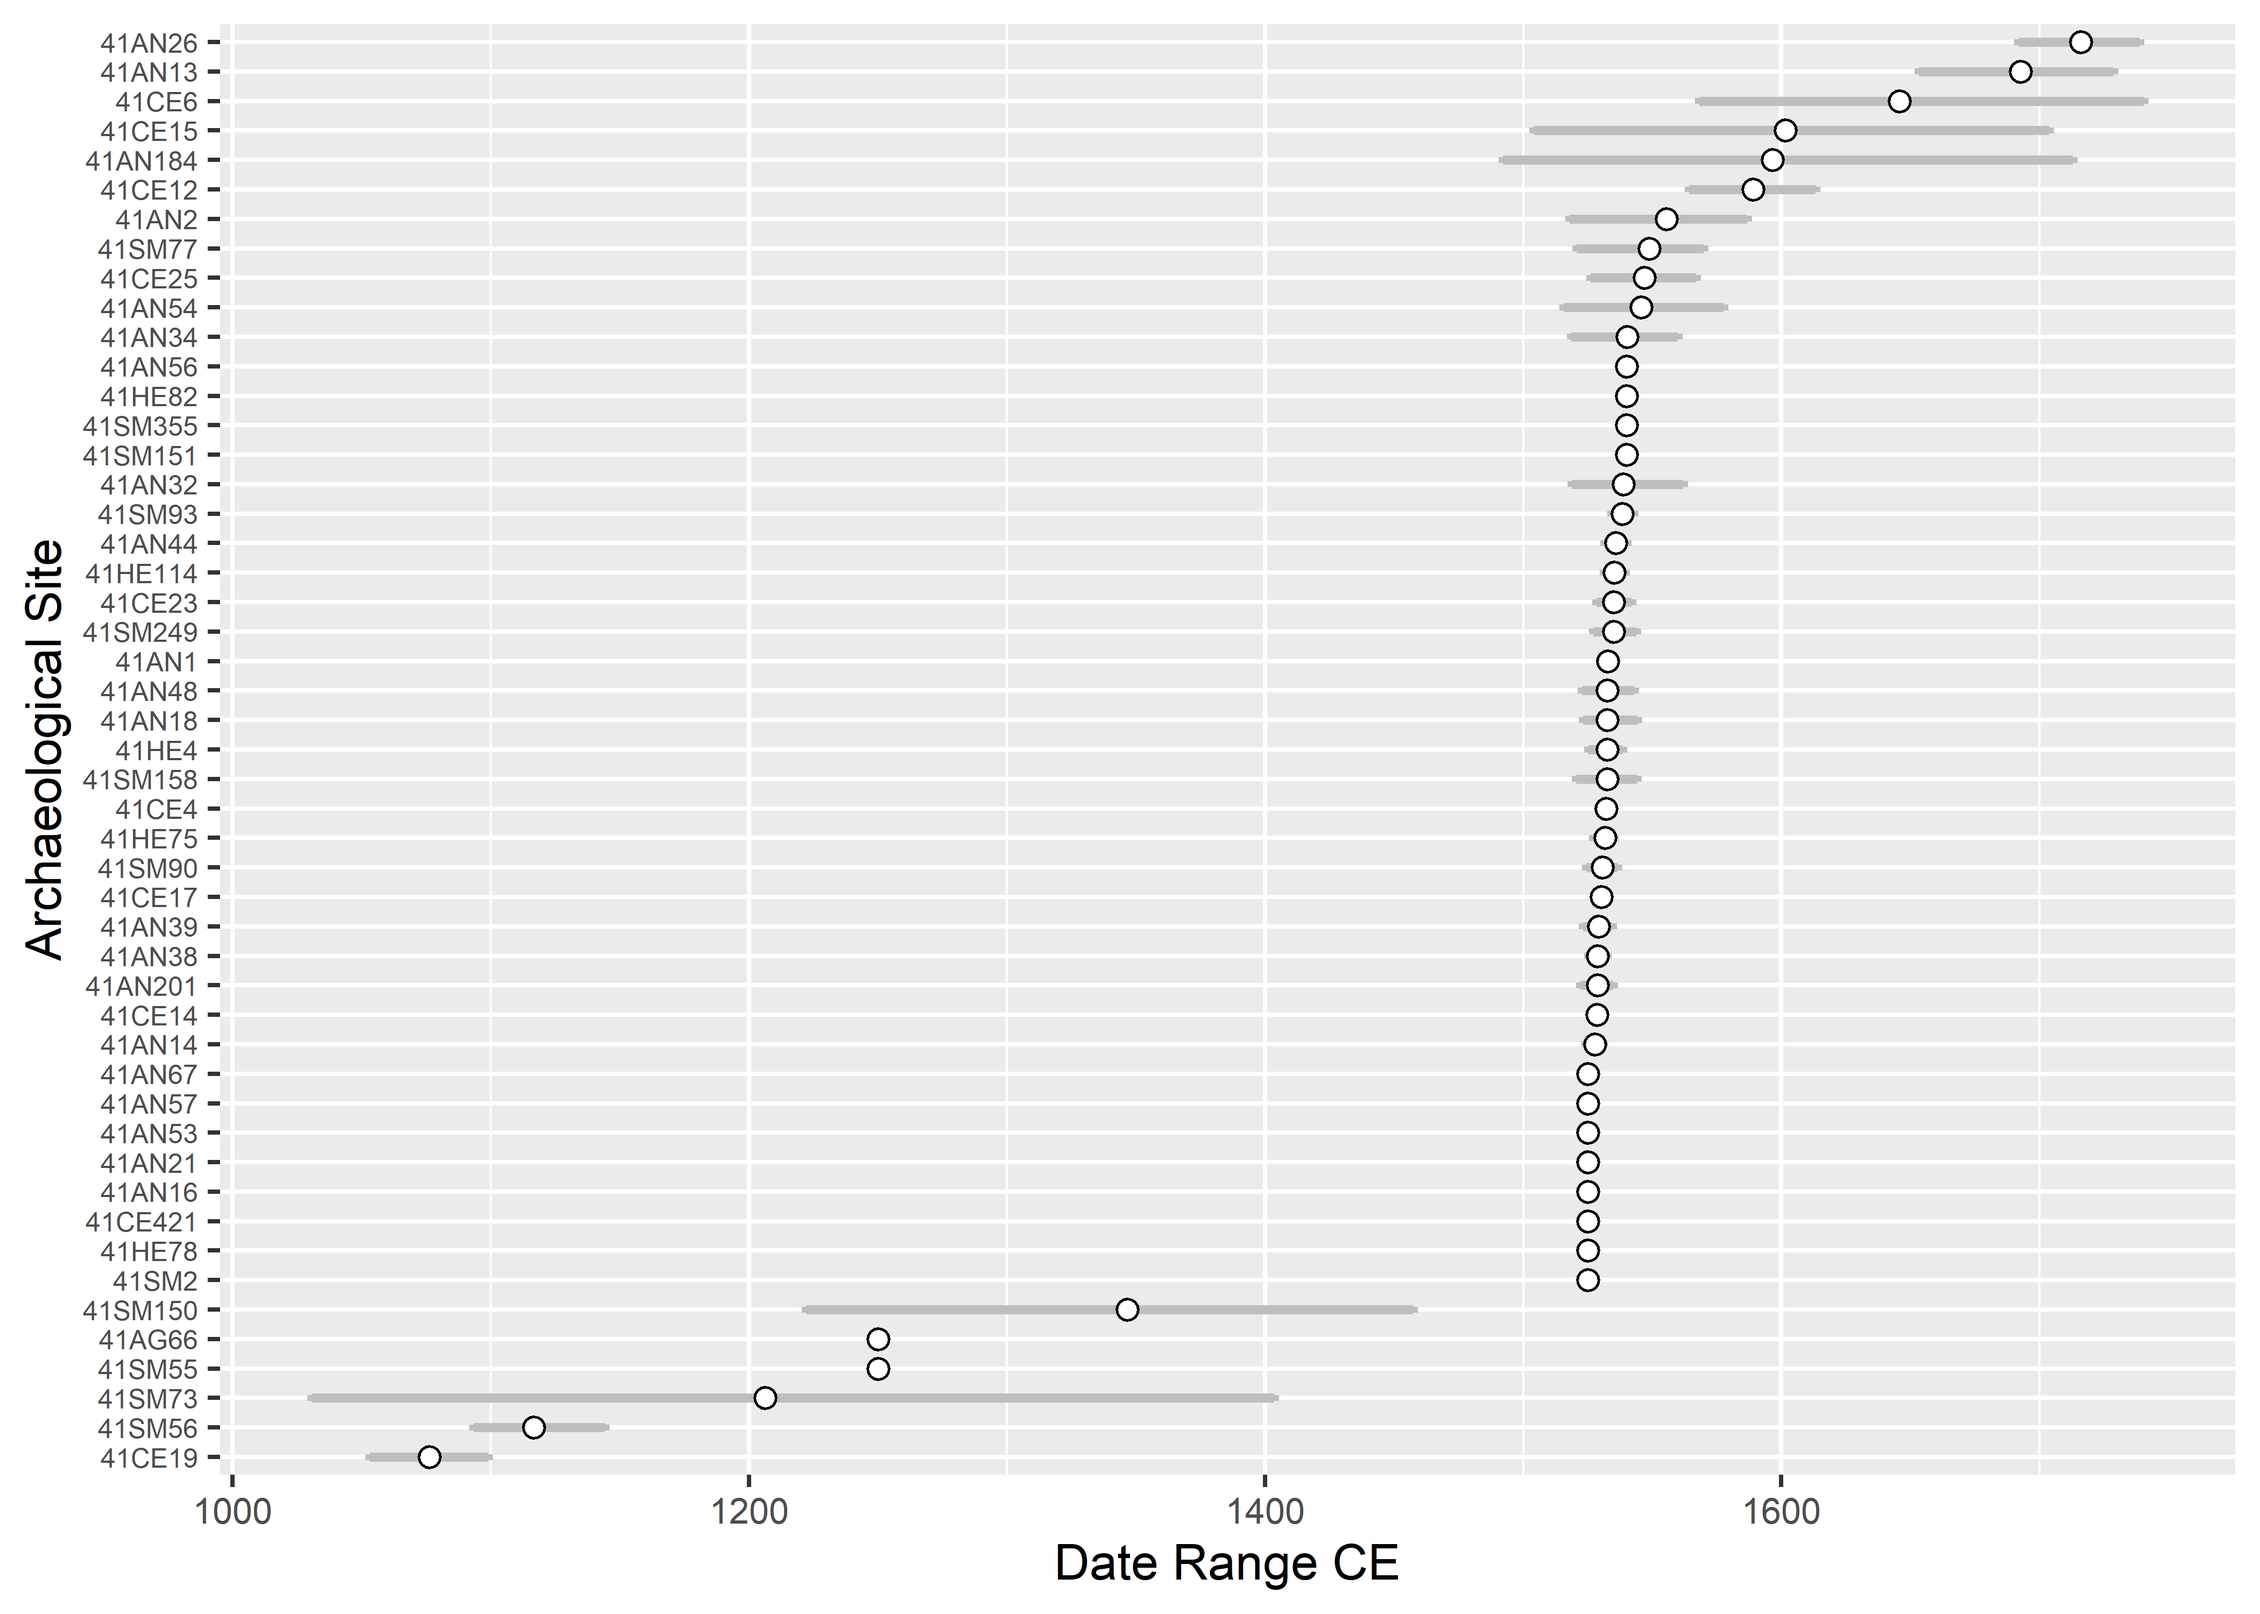
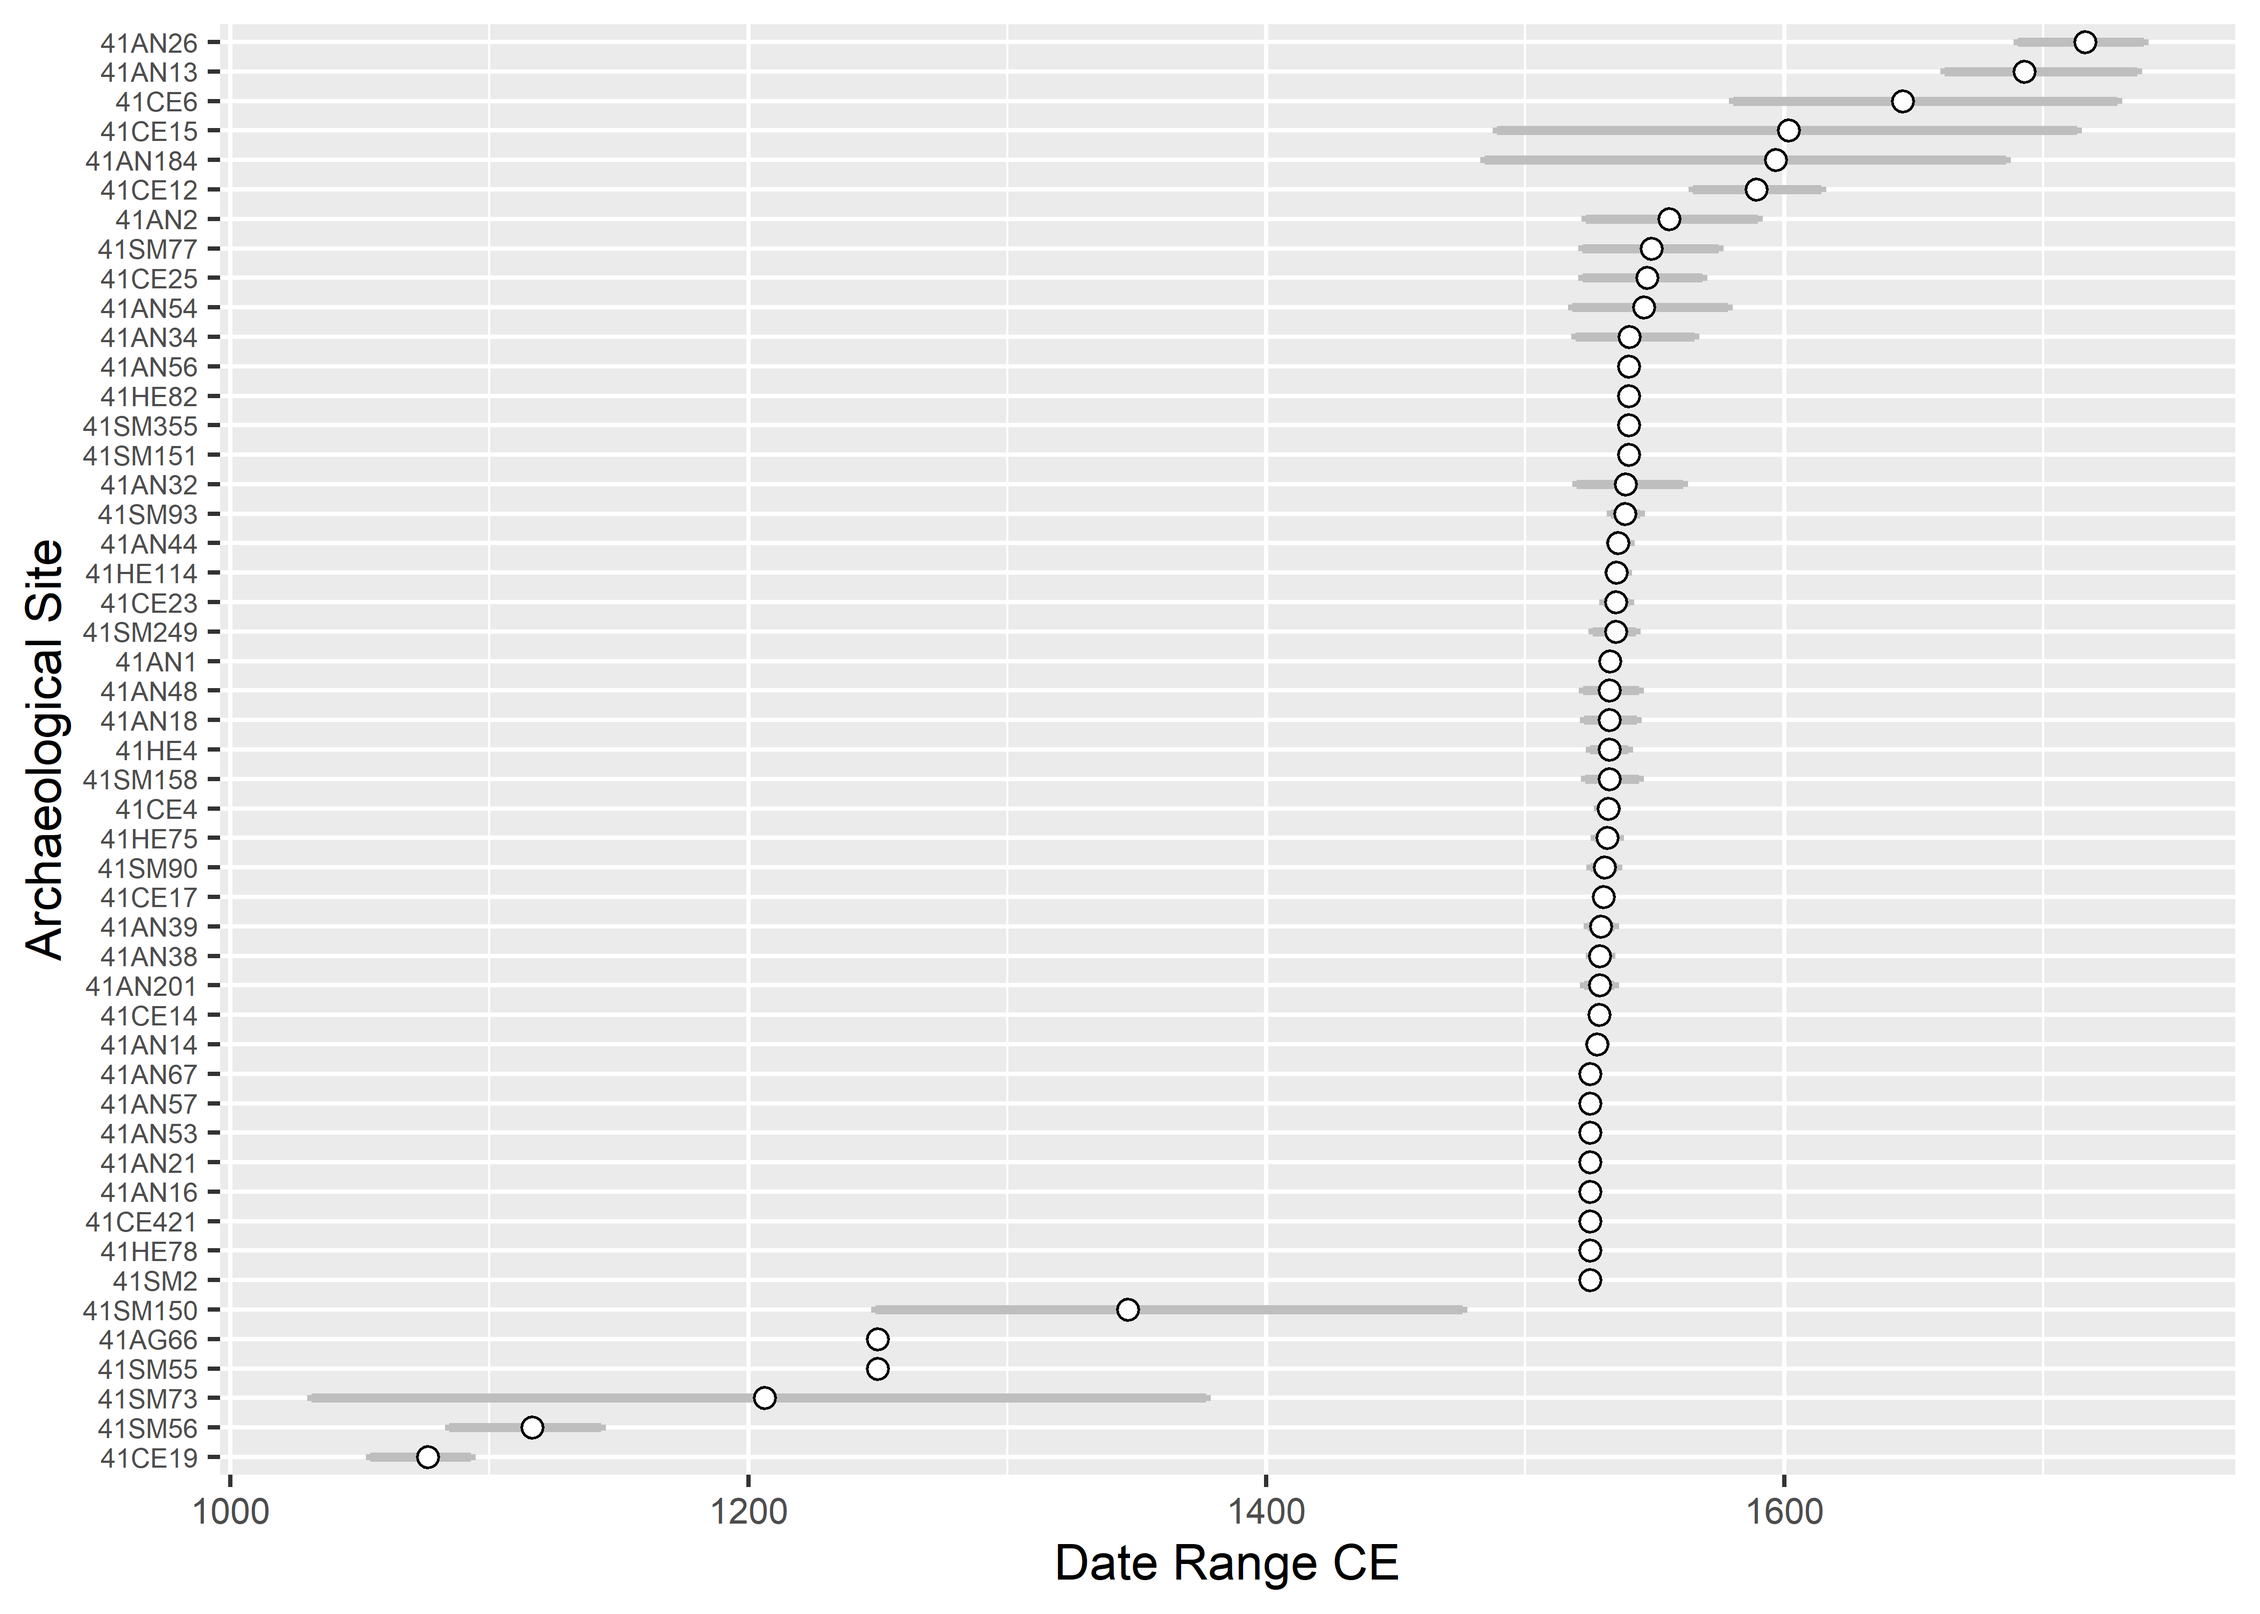
<init colophon>

diff --git a/mcd.md b/mcd.md
@@ -23,8 +23,8 @@ Texas Historic Sites Atlas, then clipped to the extent of the Neches
 River Basin. Mean ceramic dates were calculated and plotted using
 modified code originally developed by [Peeples
 (2011)](http://www.mattpeeples.net/mcd.html), who was following South
-(1972, 1977). Dates and probability ranges were then plotted using the
-`ggplot2` package included in the `tidyverse`.
+(1972, 1977). Dates and probability ranges were then plotted using
+`ggplot2`.
 
 ``` r
 # set working directory
@@ -103,51 +103,51 @@ knitr::kable(caddo, "pipe")
 
 | site    |      mcd |    lower |   higher |
 |:--------|---------:|---------:|---------:|
-| 41SM56  | 1116.667 | 1093.200 | 1144.215 |
+| 41SM56  | 1116.667 | 1084.616 | 1143.275 |
 | 41SM55  | 1250.000 | 1250.000 | 1250.000 |
-| 41SM77  | 1548.750 | 1520.704 | 1569.960 |
-| 41SM90  | 1530.625 | 1524.374 | 1536.493 |
-| 41SM73  | 1206.250 | 1030.610 | 1403.574 |
-| 41SM93  | 1538.500 | 1534.319 | 1542.803 |
+| 41SM77  | 1548.750 | 1522.028 | 1574.727 |
+| 41SM90  | 1530.625 | 1525.345 | 1535.675 |
+| 41SM73  | 1206.250 | 1031.463 | 1376.700 |
+| 41SM93  | 1538.500 | 1533.209 | 1544.403 |
 | 41SM151 | 1540.000 | 1540.000 | 1540.000 |
-| 41SM158 | 1532.500 | 1520.537 | 1544.157 |
-| 41SM249 | 1535.000 | 1527.203 | 1543.817 |
-| 41SM150 | 1346.667 | 1222.137 | 1457.386 |
+| 41SM158 | 1532.500 | 1523.177 | 1543.966 |
+| 41SM249 | 1535.000 | 1525.988 | 1542.788 |
+| 41SM150 | 1346.667 | 1249.053 | 1475.845 |
 | 41SM355 | 1540.000 | 1540.000 | 1540.000 |
 | 41SM2   | 1525.000 | 1525.000 | 1525.000 |
-| 41HE114 | 1535.263 | 1531.258 | 1539.461 |
-| 41HE4   | 1532.500 | 1525.289 | 1538.487 |
-| 41HE75  | 1531.667 | 1527.200 | 1535.113 |
+| 41HE114 | 1535.263 | 1532.048 | 1539.413 |
+| 41HE4   | 1532.500 | 1524.999 | 1539.848 |
+| 41HE75  | 1531.667 | 1526.817 | 1536.176 |
 | 41HE78  | 1525.000 | 1525.000 | 1525.000 |
 | 41HE82  | 1540.000 | 1540.000 | 1540.000 |
-| 41AN201 | 1528.750 | 1522.108 | 1534.780 |
-| 41CE4   | 1532.143 | 1529.037 | 1534.928 |
-| 41CE12  | 1589.135 | 1564.182 | 1613.227 |
-| 41CE14  | 1528.571 | 1527.077 | 1529.839 |
-| 41CE15  | 1601.667 | 1504.014 | 1703.741 |
-| 41CE17  | 1530.192 | 1527.592 | 1532.628 |
-| 41CE19  | 1076.273 | 1053.057 | 1099.026 |
-| 41CE23  | 1535.000 | 1528.339 | 1541.967 |
-| 41CE25  | 1547.000 | 1526.148 | 1566.946 |
+| 41AN201 | 1528.750 | 1522.794 | 1534.400 |
+| 41CE4   | 1532.143 | 1528.180 | 1535.114 |
+| 41CE12  | 1589.135 | 1564.705 | 1614.392 |
+| 41CE14  | 1528.571 | 1527.518 | 1529.881 |
+| 41CE15  | 1601.667 | 1489.122 | 1713.123 |
+| 41CE17  | 1530.192 | 1527.797 | 1532.776 |
+| 41CE19  | 1076.273 | 1054.120 | 1092.842 |
+| 41CE23  | 1535.000 | 1530.219 | 1540.189 |
+| 41CE25  | 1547.000 | 1522.105 | 1568.450 |
 | 41CE421 | 1525.000 | 1525.000 | 1525.000 |
-| 41CE6   | 1645.833 | 1568.197 | 1740.375 |
-| 41AN1   | 1532.759 | 1529.803 | 1535.736 |
-| 41AN13  | 1692.692 | 1653.289 | 1728.767 |
-| 41AN14  | 1527.727 | 1524.216 | 1531.016 |
+| 41CE6   | 1645.833 | 1580.342 | 1728.604 |
+| 41AN1   | 1532.759 | 1530.355 | 1535.416 |
+| 41AN13  | 1692.692 | 1661.982 | 1736.433 |
+| 41AN14  | 1527.727 | 1524.590 | 1530.809 |
 | 41AN16  | 1525.000 | 1525.000 | 1525.000 |
-| 41AN18  | 1532.500 | 1523.181 | 1544.268 |
-| 41AN184 | 1596.667 | 1492.074 | 1712.960 |
-| 41AN2   | 1555.625 | 1517.920 | 1586.812 |
+| 41AN18  | 1532.500 | 1522.824 | 1543.094 |
+| 41AN184 | 1596.667 | 1484.215 | 1685.717 |
+| 41AN2   | 1555.625 | 1523.275 | 1589.927 |
 | 41AN21  | 1525.000 | 1525.000 | 1525.000 |
-| 41AN26  | 1716.111 | 1691.834 | 1738.763 |
-| 41AN32  | 1538.750 | 1518.738 | 1562.027 |
-| 41AN34  | 1540.278 | 1518.617 | 1559.977 |
-| 41AN38  | 1528.750 | 1525.298 | 1532.458 |
-| 41AN39  | 1529.286 | 1523.166 | 1534.444 |
-| 41AN44  | 1535.909 | 1531.550 | 1540.101 |
-| 41AN48  | 1532.500 | 1522.824 | 1543.094 |
+| 41AN26  | 1716.111 | 1690.228 | 1738.744 |
+| 41AN32  | 1538.750 | 1519.902 | 1561.016 |
+| 41AN34  | 1540.278 | 1519.370 | 1565.414 |
+| 41AN38  | 1528.750 | 1524.974 | 1532.934 |
+| 41AN39  | 1529.286 | 1524.142 | 1534.430 |
+| 41AN44  | 1535.909 | 1532.771 | 1540.494 |
+| 41AN48  | 1532.500 | 1522.361 | 1543.863 |
 | 41AN53  | 1525.000 | 1525.000 | 1525.000 |
-| 41AN54  | 1545.714 | 1515.681 | 1577.686 |
+| 41AN54  | 1545.714 | 1518.174 | 1578.225 |
 | 41AN56  | 1540.000 | 1540.000 | 1540.000 |
 | 41AN57  | 1525.000 | 1525.000 | 1525.000 |
 | 41AN67  | 1525.000 | 1525.000 | 1525.000 |
@@ -186,6 +186,101 @@ ggplot() +
 
 # end of code
 ```
+
+### Colophon
+
+This version of the analysis was generated on 2021-05-18 07:54:50 using
+the following computational environment and dependencies:
+
+``` r
+# what R packages and versions were used?
+if ("devtools" %in% installed.packages()) devtools::session_info()
+```
+
+    ## - Session info ---------------------------------------------------------------
+    ##  setting  value                       
+    ##  version  R version 4.0.5 (2021-03-31)
+    ##  os       Windows 10 x64              
+    ##  system   x86_64, mingw32             
+    ##  ui       RTerm                       
+    ##  language (EN)                        
+    ##  collate  English_United States.1252  
+    ##  ctype    English_United States.1252  
+    ##  tz       America/Chicago             
+    ##  date     2021-05-18                  
+    ## 
+    ## - Packages -------------------------------------------------------------------
+    ##  package     * version date       lib source        
+    ##  assertthat    0.2.1   2019-03-21 [1] CRAN (R 4.0.2)
+    ##  cachem        1.0.5   2021-05-15 [1] CRAN (R 4.0.5)
+    ##  callr         3.7.0   2021-04-20 [1] CRAN (R 4.0.5)
+    ##  cli           2.5.0   2021-04-26 [1] CRAN (R 4.0.5)
+    ##  colorspace    2.0-1   2021-05-04 [1] CRAN (R 4.0.5)
+    ##  crayon        1.4.1   2021-02-08 [1] CRAN (R 4.0.3)
+    ##  DBI           1.1.1   2021-01-15 [1] CRAN (R 4.0.3)
+    ##  desc          1.3.0   2021-03-05 [1] CRAN (R 4.0.5)
+    ##  devtools      2.4.1   2021-05-05 [1] CRAN (R 4.0.5)
+    ##  digest        0.6.27  2020-10-24 [1] CRAN (R 4.0.3)
+    ##  dplyr         1.0.6   2021-05-05 [1] CRAN (R 4.0.5)
+    ##  ellipsis      0.3.2   2021-04-29 [1] CRAN (R 4.0.5)
+    ##  evaluate      0.14    2019-05-28 [1] CRAN (R 4.0.2)
+    ##  fansi         0.4.2   2021-01-15 [1] CRAN (R 4.0.3)
+    ##  farver        2.1.0   2021-02-28 [1] CRAN (R 4.0.5)
+    ##  fastmap       1.1.0   2021-01-25 [1] CRAN (R 4.0.3)
+    ##  fs            1.5.0   2020-07-31 [1] CRAN (R 4.0.2)
+    ##  generics      0.1.0   2020-10-31 [1] CRAN (R 4.0.3)
+    ##  ggplot2     * 3.3.3   2020-12-30 [1] CRAN (R 4.0.3)
+    ##  glue          1.4.2   2020-08-27 [1] CRAN (R 4.0.2)
+    ##  gtable        0.3.0   2019-03-25 [1] CRAN (R 4.0.2)
+    ##  here        * 1.0.1   2020-12-13 [1] CRAN (R 4.0.3)
+    ##  highr         0.9     2021-04-16 [1] CRAN (R 4.0.5)
+    ##  htmltools     0.5.1.1 2021-01-22 [1] CRAN (R 4.0.3)
+    ##  knitr         1.33    2021-04-24 [1] CRAN (R 4.0.5)
+    ##  labeling      0.4.2   2020-10-20 [1] CRAN (R 4.0.3)
+    ##  lifecycle     1.0.0   2021-02-15 [1] CRAN (R 4.0.4)
+    ##  magrittr      2.0.1   2020-11-17 [1] CRAN (R 4.0.3)
+    ##  memoise       2.0.0   2021-01-26 [1] CRAN (R 4.0.3)
+    ##  munsell       0.5.0   2018-06-12 [1] CRAN (R 4.0.2)
+    ##  pillar        1.6.1   2021-05-16 [1] CRAN (R 4.0.5)
+    ##  pkgbuild      1.2.0   2020-12-15 [1] CRAN (R 4.0.3)
+    ##  pkgconfig     2.0.3   2019-09-22 [1] CRAN (R 4.0.2)
+    ##  pkgload       1.2.1   2021-04-06 [1] CRAN (R 4.0.5)
+    ##  prettyunits   1.1.1   2020-01-24 [1] CRAN (R 4.0.2)
+    ##  processx      3.5.2   2021-04-30 [1] CRAN (R 4.0.5)
+    ##  ps            1.6.0   2021-02-28 [1] CRAN (R 4.0.5)
+    ##  purrr         0.3.4   2020-04-17 [1] CRAN (R 4.0.2)
+    ##  R6            2.5.0   2020-10-28 [1] CRAN (R 4.0.3)
+    ##  remotes       2.3.0   2021-04-01 [1] CRAN (R 4.0.5)
+    ##  rlang         0.4.11  2021-04-30 [1] CRAN (R 4.0.5)
+    ##  rmarkdown     2.8     2021-05-07 [1] CRAN (R 4.0.5)
+    ##  rprojroot     2.0.2   2020-11-15 [1] CRAN (R 4.0.3)
+    ##  scales        1.1.1   2020-05-11 [1] CRAN (R 4.0.2)
+    ##  sessioninfo   1.1.1   2018-11-05 [1] CRAN (R 4.0.2)
+    ##  stringi       1.6.2   2021-05-17 [1] CRAN (R 4.0.5)
+    ##  stringr       1.4.0   2019-02-10 [1] CRAN (R 4.0.2)
+    ##  testthat      3.0.2   2021-02-14 [1] CRAN (R 4.0.4)
+    ##  tibble        3.1.2   2021-05-16 [1] CRAN (R 4.0.5)
+    ##  tidyselect    1.1.1   2021-04-30 [1] CRAN (R 4.0.5)
+    ##  usethis       2.0.1   2021-02-10 [1] CRAN (R 4.0.3)
+    ##  utf8          1.2.1   2021-03-12 [1] CRAN (R 4.0.5)
+    ##  vctrs         0.3.8   2021-04-29 [1] CRAN (R 4.0.5)
+    ##  withr         2.4.2   2021-04-18 [1] CRAN (R 4.0.5)
+    ##  xfun          0.23    2021-05-15 [1] CRAN (R 4.0.5)
+    ##  yaml          2.2.1   2020-02-01 [1] CRAN (R 4.0.2)
+    ## 
+    ## [1] C:/Users/seldenjrz/Documents/R/win-library/4.0
+    ## [2] C:/Program Files/R/R-4.0.5/library
+
+Current Git commit details are:
+
+``` r
+# where can I find this commit? 
+if ("git2r" %in% installed.packages() & git2r::in_repository(path = ".")) git2r::repository(here::here())  
+```
+
+    ## Local:    master E:/github/mean-ceramic-dates
+    ## Remote:   master @ origin (https://github.com/aksel-blaise/mean-ceramic-dates)
+    ## Head:     [5622acb] 2021-05-18: <init kable>
 
 ## References
 
